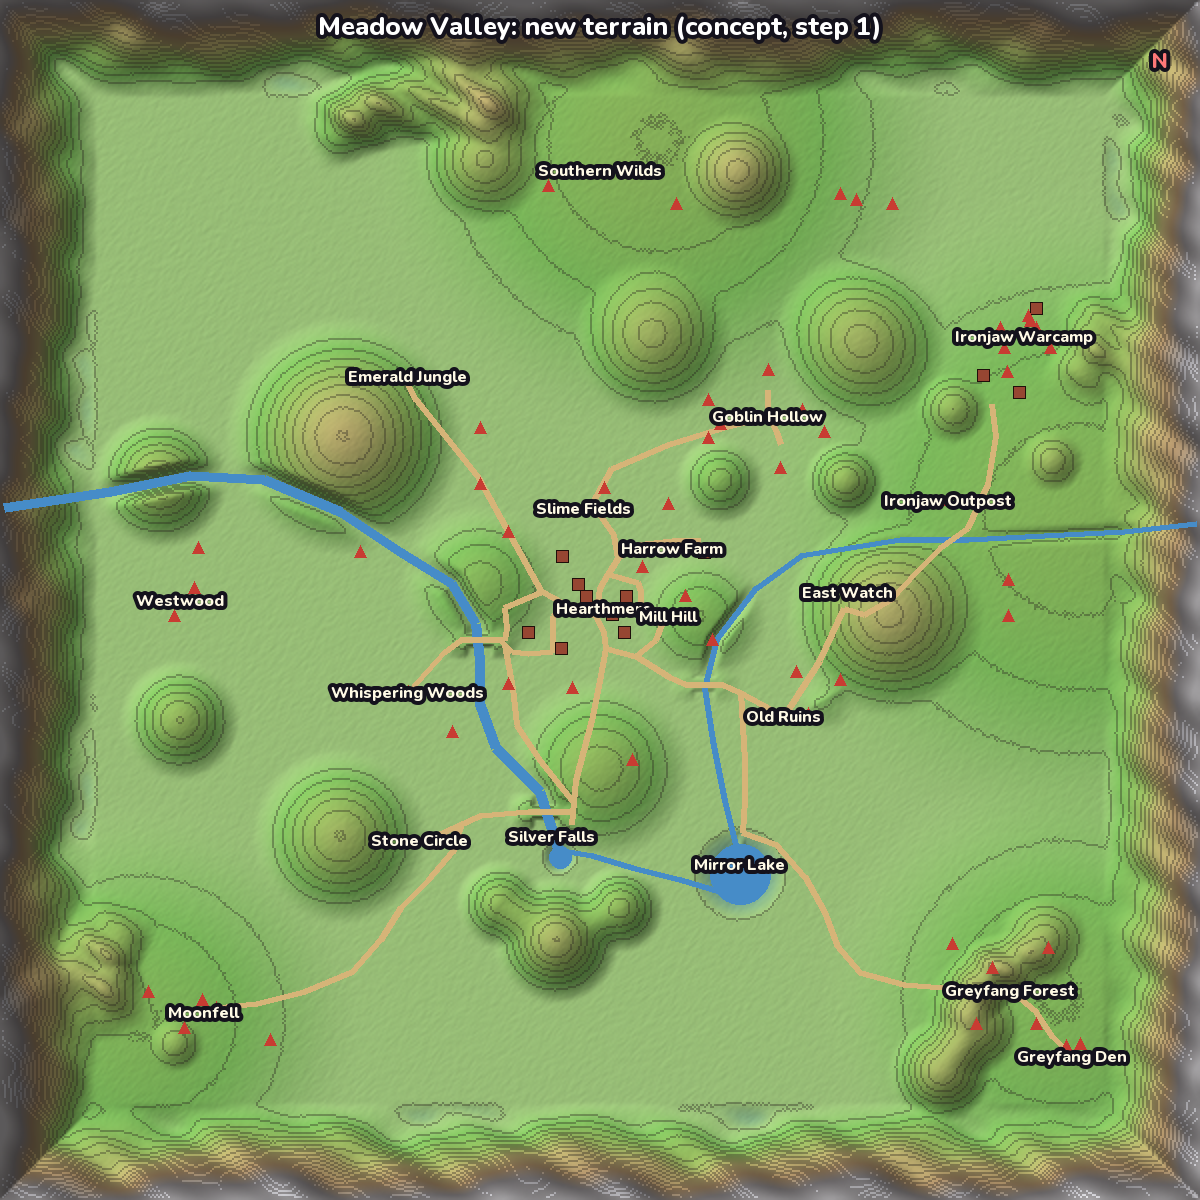
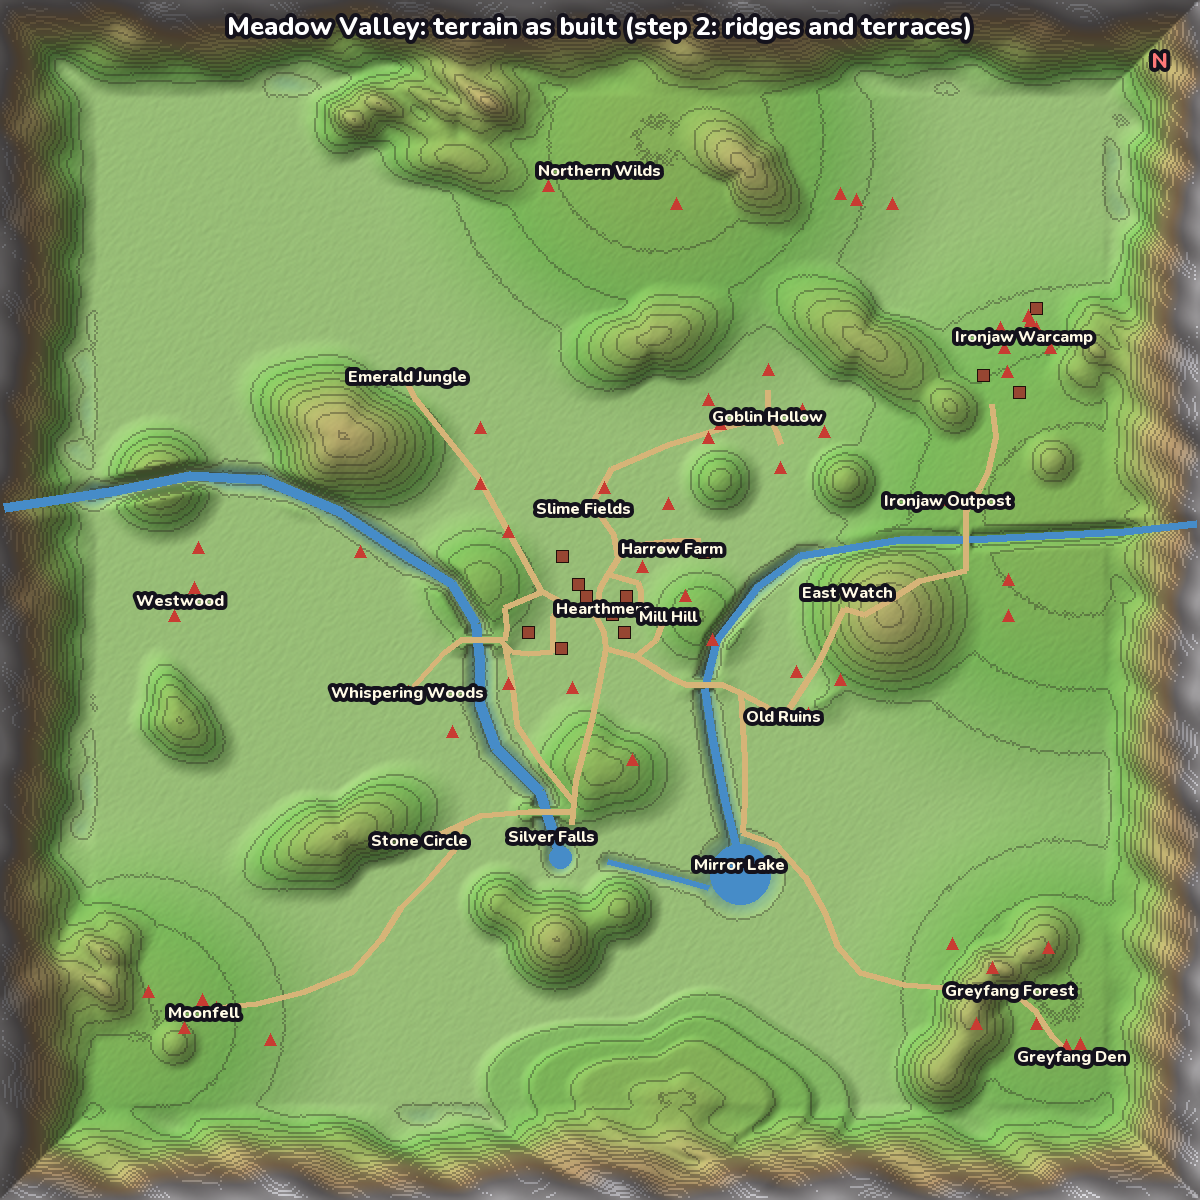
Hills can be long ridges with lobed outlines and terraced slopes
Eight round domes in Meadow Valley become ridges turned off the camps, and a terraced ridge rises
by the south rim. Minimap and zone map redrawn.

Claude-Session: https://claude.ai/code/session_01LdsgKz31vMbMnFngz4b982

diff --git a/shared-core/Zone.cs b/shared-core/Zone.cs
@@ -61,7 +61,12 @@ public readonly record struct PlacedProp(string Model, Vector3 Position, float S
 /// </summary>
 public sealed class Zone
 {
-    private sealed record HillData(float X, float Z, float Radius, float Height);
+    /// <summary>
+    /// A hill. Round by default; with <c>Stretch</c> above 1 it is a long ridge turned by <c>Yaw</c>
+    /// (degrees, 0 along x) with a wandering, lobed outline, and <c>Terrace</c> (metres) steps its slopes
+    /// into shelves.
+    /// </summary>
+    private sealed record HillData(float X, float Z, float Radius, float Height, float Stretch = 1f, float Yaw = 0f, float Terrace = 0f);
 
     /// <summary>
     /// A kind of ground over a round area: forest (a dark floor of needles and moss, little grass),
@@ -444,11 +449,21 @@ public sealed class Zone
         var height = 0f;
         foreach (var hill in data.Hills)
         {
-            var distance = new Vector2(x - hill.X, z - hill.Z).Length() / hill.Radius;
+            var distance = HillDistance(hill, x - hill.X, z - hill.Z);
             if (distance < 1f)
             {
                 var falloff = 1f - distance * distance;
-                height += hill.Height * falloff * falloff;
+                var rise = hill.Height * falloff * falloff;
+                if (hill.Terrace > 0f)
+                {
+                    // Shelves: flat treads joined by short, still walkable risers.
+                    var steps = rise / hill.Terrace;
+                    var tread = MathF.Floor(steps);
+                    var riser = Math.Clamp((steps - tread - 0.6f) / 0.4f, 0f, 1f);
+                    rise = (tread + riser * riser * (3f - 2f * riser)) * hill.Terrace;
+                }
+
+                height += rise;
             }
         }
 
@@ -468,6 +483,23 @@ public sealed class Zone
         }
 
         return height;
+    }
+
+    /// <summary>How far a point lies from a hill's middle, as a share of its outline (1 on the outline).</summary>
+    private static float HillDistance(HillData hill, float dx, float dz)
+    {
+        if (hill.Stretch <= 1f)
+        {
+            return new Vector2(dx, dz).Length() / hill.Radius;
+        }
+
+        var yaw = hill.Yaw * MathF.PI / 180f;
+        var along = dx * MathF.Cos(yaw) + dz * MathF.Sin(yaw);
+        var across = -dx * MathF.Sin(yaw) + dz * MathF.Cos(yaw);
+        var angle = MathF.Atan2(across, along);
+        var seed = hill.X * 0.37f + hill.Z * 0.21f;
+        var lobes = 1f + 0.14f * MathF.Sin(2f * angle + seed) + 0.09f * MathF.Sin(3f * angle - seed * 1.7f) + 0.05f * MathF.Sin(5f * angle + seed * 0.6f);
+        return new Vector2(along / (hill.Radius * hill.Stretch), across / hill.Radius).Length() / lobes;
     }
 
     /// <summary>The bed height every few metres along a river. It only ever falls, so water can flow.</summary>

diff --git a/design/overnight-plan.md b/design/overnight-plan.md
@@ -46,3 +46,4 @@ Pravidla:
 | 23:40 | 1 | hotovo: nový terén údolí (5 skalisek místo vnitřních hřbetů, Silverbrook ven západním sedlem, Ironwash do Mirror Lake), most přes Ironwash u East Watch (183, −30) severojižně; nájezd i testy mostů podle delší strany desky; 327 testů zelených, snímek `ironwash_bridge` ukazuje vodu pod mostem |
 | 23:55 | 2 | hotovo: world-plan.md kapitola 8 (biomy, atmosféra s prolínáním 40 m, logika sídel, standard domů, opuštěná místa), waystones jen od kamene ke kameni, voda v `layout.json` podle údolí (Silverbrook, Westbrook, Ironwash do Mirror Lake, Mirrorrun za jižním okrajem), mapy překresleny |
 | 00:05 | 3 | hotovo: Southern Wilds → Northern Wilds (zóna, snímek `wildcamp_north`), CLAUDE.md opravené světové strany (Greyfang JV, Moonfell JZ, Ironjaw SV); příběhové dokumenty nechány; kdo už měl Southern Wilds objevené, uvidí jméno až po novém objevení |
+| 00:45 | 4 | hotovo: kopce mohou být protáhlé (`stretch`, `yaw`) s laločnatým obrysem a terasované (`terrace`); 8 kulatých kopců přetvořeno na hřbety, nový terasovaný hřbet u jižního okraje (40, 250); kopce otočené tak, aby žádný tábor nestál na horším svahu než dřív (kontrola výškového rozdílu v kruhu tábora); minimapa a mapa zóny překresleny, snímky `south_terraces`, `wildcamp_north`, `goblin_fort` přečteny; 327 testů zelených. Výkon neměřen (tvar terénu nemění počet objektů) |
